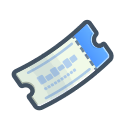
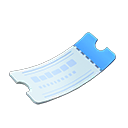
design - CartItem - add tickets counter

Changed region(s): [[0.0625, 0.1562, 0.9062, 0.875]]

diff --git a/src/Components/CartItem.tsx b/src/Components/CartItem.tsx
@@ -10,6 +10,7 @@ interface CartItemProps {
 
 function CartItem({ item, cart, setCart }: CartItemProps) {
 	const [quantityInput, setQuantityInput] = useState<number>(1);
+	const [milesTicketInput, setMilesTicketInput] = useState<number>(1);
 
 	useEffect(() => {
 		item.quantity = quantityInput;
@@ -23,12 +24,20 @@ function CartItem({ item, cart, setCart }: CartItemProps) {
 		setCart(cart.filter((cartItem) => cartItem.UniqueEntryID !== item.UniqueEntryID));
 	};
 
-	const onDecrement = () => {
+	const onQuantityDecrement = () => {
 		setQuantityInput((quantityInput) => quantityInput - 1);
 	};
 
-	const onIncrement = () => {
+	const onQuantityIncrement = () => {
 		setQuantityInput((quantityInput) => quantityInput + 1);
+	};
+
+	const onMilesTicketDecrement = () => {
+		setMilesTicketInput((milesTicketInput) => milesTicketInput - 1);
+	};
+
+	const onMilesTicketIncrement = () => {
+		setMilesTicketInput((milesTicketInput) => milesTicketInput + 1);
 	};
 
 	return (
@@ -61,7 +70,7 @@ function CartItem({ item, cart, setCart }: CartItemProps) {
 			<div className='custom-number-input mx-auto h-10 w-24'>
 				<div className='relative mt-1 flex h-8 w-full flex-row rounded-lg bg-transparent'>
 					<button
-						onClick={onDecrement}
+						onClick={onQuantityDecrement}
 						data-action='decrement'
 						className='h-full w-20 cursor-pointer rounded-l-full bg-gray-100 text-gray-600 outline-none hover:bg-gray-200 hover:text-gray-700'
 					>
@@ -77,10 +86,9 @@ function CartItem({ item, cart, setCart }: CartItemProps) {
 						className='outlineNone focus:outlineNone flex w-7 cursor-default items-center bg-gray-100 text-center text-sm font-semibold  text-gray-700  hover:text-black focus:text-black  md:text-base'
 						name='custom-input-number'
 						value={quantityInput.toString()}
-						// onChange={quantityHandler}
 					></input>
 					<button
-						onClick={onIncrement}
+						onClick={onQuantityIncrement}
 						data-action='increment'
 						className='h-full w-20 cursor-pointer rounded-r-full bg-gray-100 text-gray-600 hover:bg-gray-200 hover:text-gray-700'
 					>
@@ -95,31 +103,42 @@ function CartItem({ item, cart, setCart }: CartItemProps) {
 			{/* Quantity Counter */}
 
 			{/* Miles Ticket Counter */}
-			<div className='custom-number-input mx-auto h-10 w-24'>
-				<div className='relative mt-1 flex h-10 w-full flex-row rounded-lg border bg-transparent'>
-					<button
-						data-action='decrement'
-						className=' w-20 cursor-pointer justify-center rounded-l shadow-sm hover:bg-gray-200 hover:text-gray-700 focus:outline-none '
-					>
-						<span className='mr-1.5 flex items-center justify-end'>
-							<svg xmlns='http://www.w3.org/2000/svg' width='18' height='18' viewBox='0 0 24 24'>
-								<path fill='currentColor' d='M18 12.998H6a1 1 0 0 1 0-2h12a1 1 0 0 1 0 2z' />
-							</svg>
-						</span>
-					</button>
-					<div className='md:text-basecursor-default w-full cursor-pointer items-center justify-center text-center font-semibold text-gray-700 shadow-sm outline-none hover:text-black focus:text-black focus:outline-none'>
-						<img src={MilesTicket} />
+			<div className='custom-number-input mx-auto h-10 w-20'>
+				<div className='relative mt-1 flex h-8 w-full flex-row rounded-lg border bg-transparent'>
+					<div className='flex w-full items-center'>
+						<img className='ml-1 h-6 w-6 ' src={MilesTicket} />
+						<input
+							readOnly
+							type='number'
+							className='outlineNone focus:outlineNone w-full cursor-default  bg-transparent text-center text-sm  font-semibold  text-gray-700 hover:text-black  focus:text-black md:text-base'
+							name='custom-input-number'
+							value={milesTicketInput.toString()}
+						></input>
 					</div>
-					<button
-						data-action='increment'
-						className='w-20 cursor-pointer justify-center rounded-r shadow-sm hover:bg-gray-200 hover:text-gray-700 focus:outline-none'
-					>
-						<span className='ml-1.5 flex items-center justify-start'>
-							<svg xmlns='http://www.w3.org/2000/svg' width='18' height='18' viewBox='0 0 24 24'>
-								<path fill='currentColor' d='M18 12.998h-5v5a1 1 0 0 1-2 0v-5H6a1 1 0 0 1 0-2h5v-5a1 1 0 0 1 2 0v5h5a1 1 0 0 1 0 2z' />
-							</svg>
-						</span>
-					</button>
+					<div className='flex h-full flex-col'>
+						<button
+							onClick={onMilesTicketIncrement}
+							data-action='increment'
+							className='flex h-1/2 w-7 cursor-pointer items-center justify-center rounded-tr hover:bg-gray-200 hover:text-gray-700 focus:outline-none'
+						>
+							<span className='mt-1'>
+								<svg xmlns='http://www.w3.org/2000/svg' width='20' height='20' viewBox='0 0 24 24'>
+									<path fill='currentColor' d='m7 14l5-5l5 5H7z' />
+								</svg>
+							</span>
+						</button>
+						<button
+							onClick={onMilesTicketDecrement}
+							data-action='decrement'
+							className='flex h-1/2 w-7 cursor-pointer items-center justify-center rounded-br hover:bg-gray-200 hover:text-gray-700 focus:outline-none '
+						>
+							<span className='mb-1'>
+								<svg xmlns='http://www.w3.org/2000/svg' width='20' height='20' viewBox='0 0 24 24'>
+									<path fill='currentColor' d='m7 10l5 5l5-5H7z' />
+								</svg>
+							</span>
+						</button>
+					</div>
 				</div>
 			</div>
 			{/* Miles Ticket Counter */}
